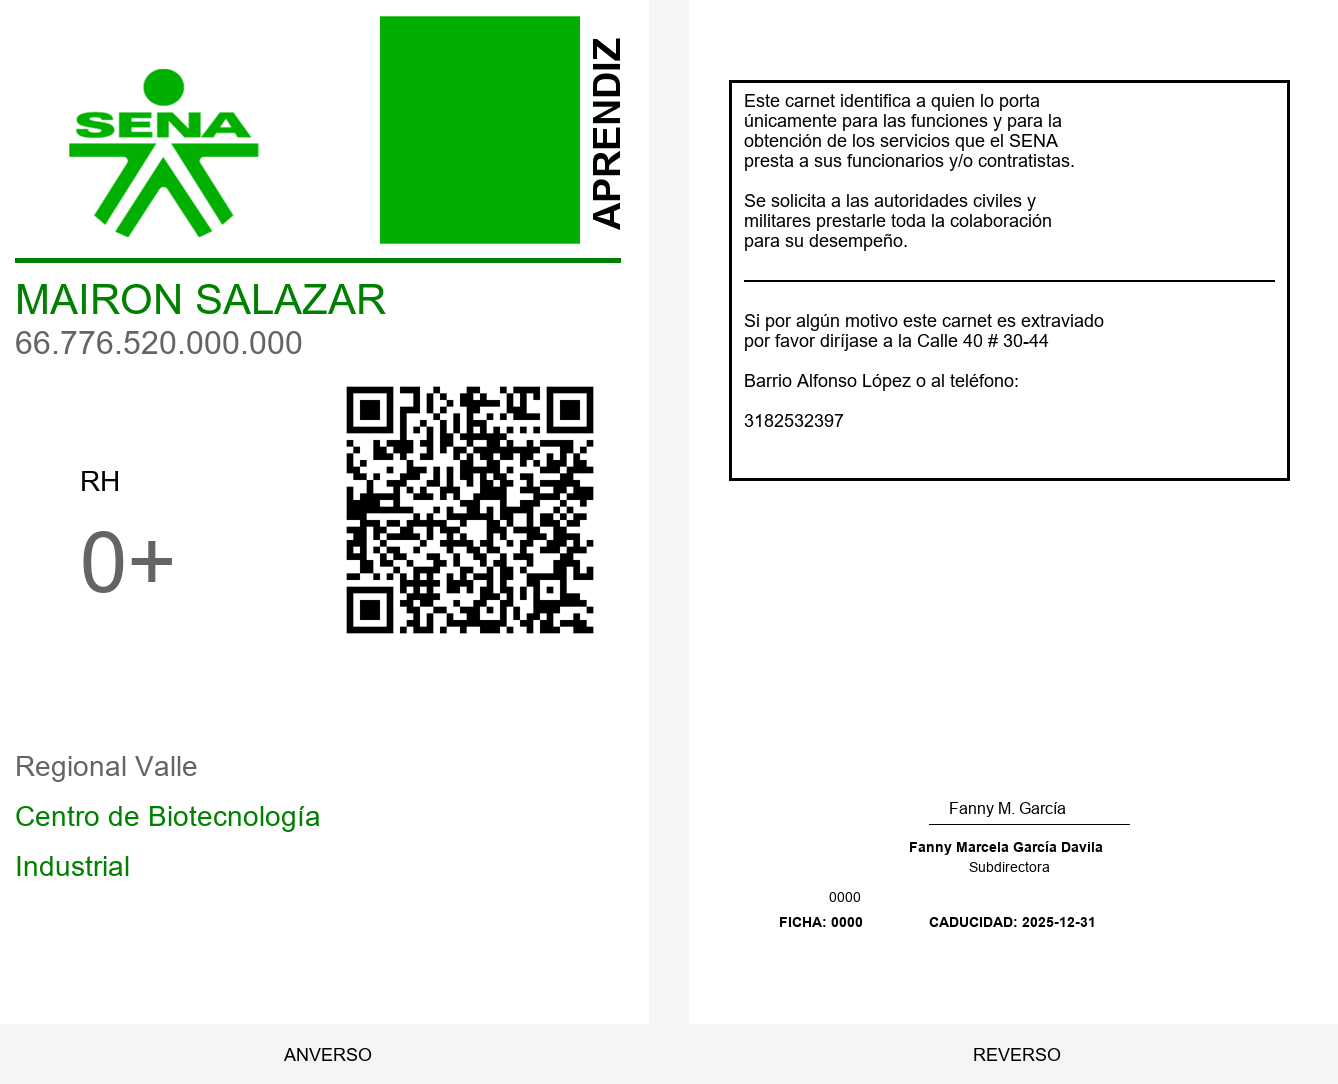
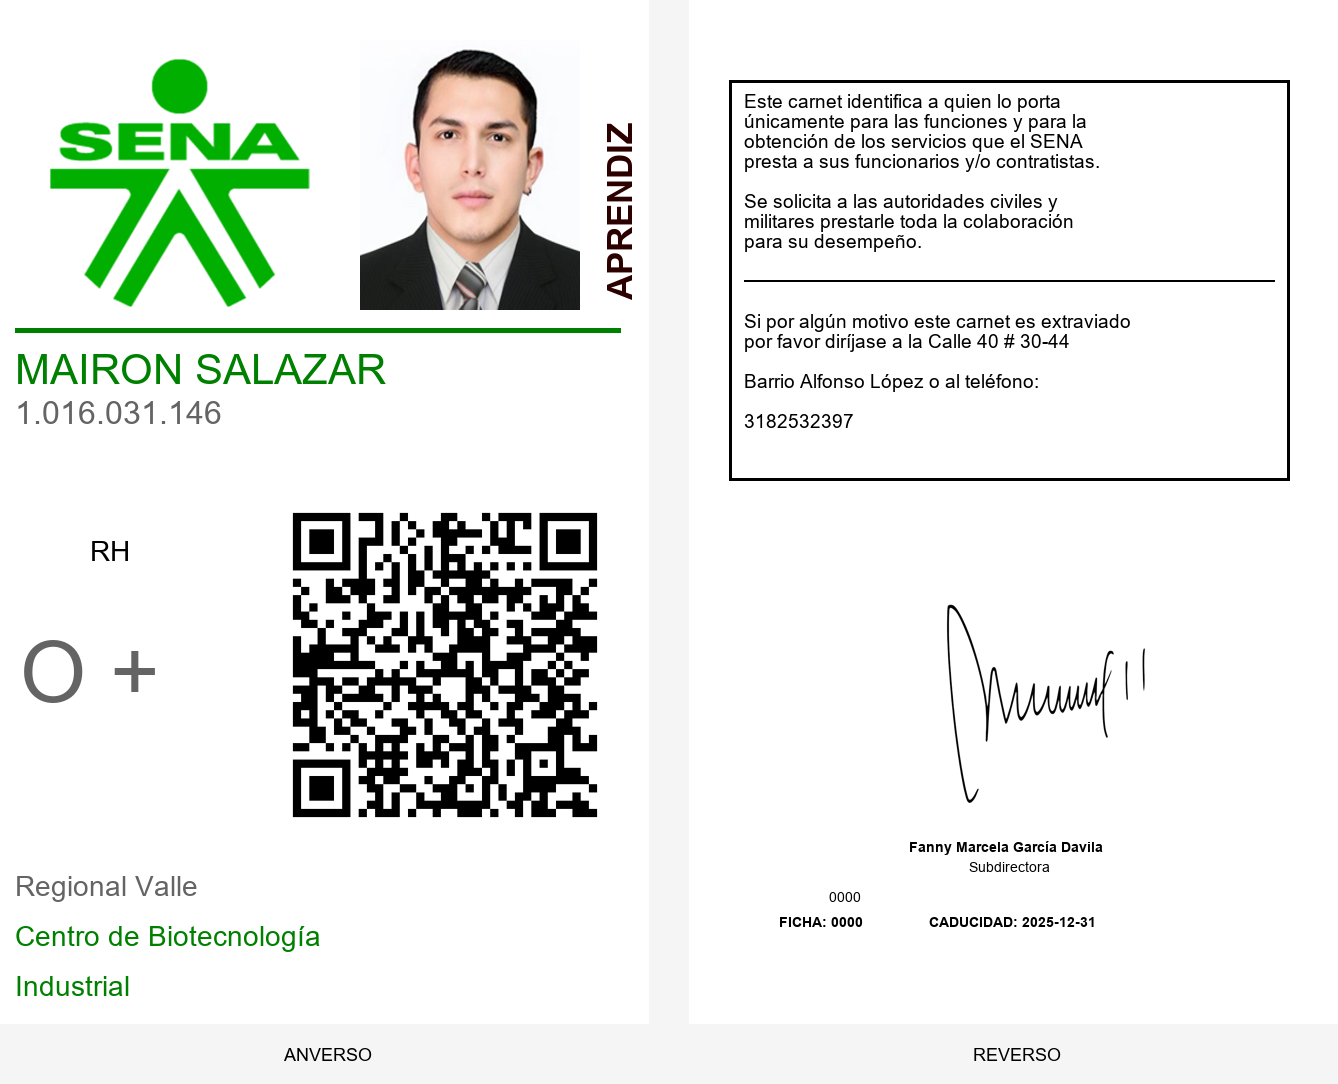
actualizar

diff --git a/imagen.py b/imagen.py
@@ -35,12 +35,44 @@ def generar_carnet(empleado, ruta_qr):
         draw.text((15, 15), "SENA", fill=(0, 128, 0), font=font_logo)
 
     # ========== AQUÍ ESTÁ LA FOTO - MÁS GRANDE SIN PASAR LA LÍNEA VERDE ==========
-    # Cargar foto del empleado MUCHO MÁS GRANDE - BAJADA MÁS
-    ruta_foto = os.path.join("static", "fotos", empleado['foto'])
+    # ✅ MODIFICACIÓN PRINCIPAL: Usar nueva función para obtener foto procesada
     try:
-        foto = Image.open(ruta_foto).convert("RGB")
+        # Importar función de procesamiento de fotos
+        from procesamiento_fotos import obtener_ruta_foto_final
+        ruta_foto_final = obtener_ruta_foto_final(empleado['cedula'])
+        
+        if ruta_foto_final:
+            print(f"📸 Usando foto: {ruta_foto_final}")
+            foto = Image.open(ruta_foto_final).convert("RGB")
+        else:
+            # Fallback: buscar foto con el nombre del campo 'foto' de la base de datos
+            if empleado.get('foto'):
+                ruta_foto_bd = os.path.join("static", "fotos", empleado['foto'])
+                if os.path.exists(ruta_foto_bd):
+                    foto = Image.open(ruta_foto_bd).convert("RGB")
+                    print(f"📸 Usando foto de BD: {ruta_foto_bd}")
+                else:
+                    raise Exception(f"No se encontró la foto en BD: {ruta_foto_bd}")
+            else:
+                raise Exception("No hay foto disponible para este empleado")
+                
+    except ImportError:
+        # Si no está disponible el módulo de procesamiento, usar método original
+        print("⚠ Módulo de procesamiento no disponible, usando método original")
+        ruta_foto = os.path.join("static", "fotos", empleado['foto'])
+        try:
+            foto = Image.open(ruta_foto).convert("RGB")
+        except Exception as e:
+            raise Exception(f"No se pudo cargar la foto: {e}")
     except Exception as e:
-        raise Exception(f"No se pudo cargar la foto: {e}")
+        print(f"❌ Error obteniendo foto: {e}")
+        # Intentar método original como último recurso
+        ruta_foto = os.path.join("static", "fotos", empleado['foto'])
+        try:
+            foto = Image.open(ruta_foto).convert("RGB")
+            print(f"📸 Usando foto original como fallback: {ruta_foto}")
+        except Exception as e2:
+            raise Exception(f"No se pudo cargar la foto: {e2}")
     
     # 📸 FOTO MÁS ANCHA Y MÁS ALTA - SIN PASAR LÍNEA VERDE
     # Línea verde está en Y=330, foto empieza en Y=75, entonces máximo alto = 330-75 = 255px

diff --git a/app.py b/app.py
@@ -1020,3 +1020,5 @@ actualizar_base_datos_sena()
 
 if __name__ == "__main__":
     app.run(debug=True)
+if __name__ == "__main__":
+    app.run(host="0.0.0.0", port=5000)
